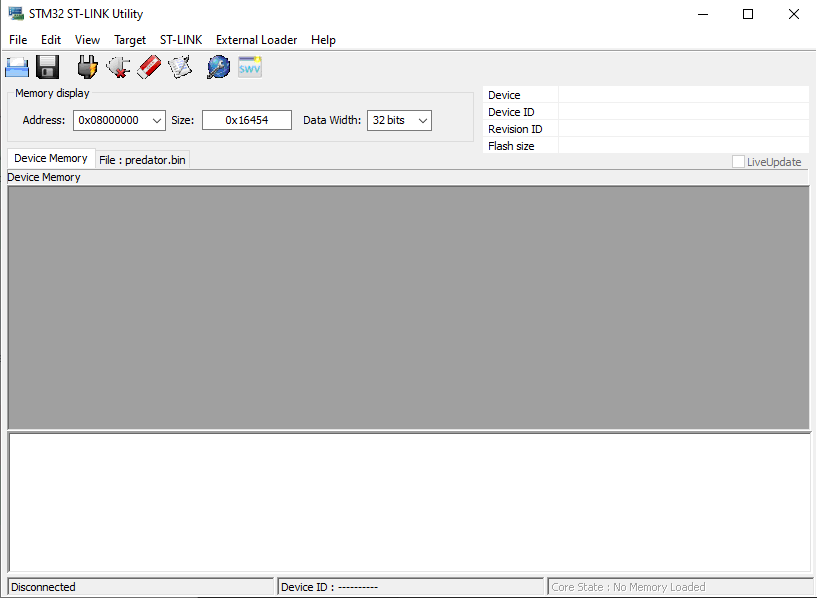
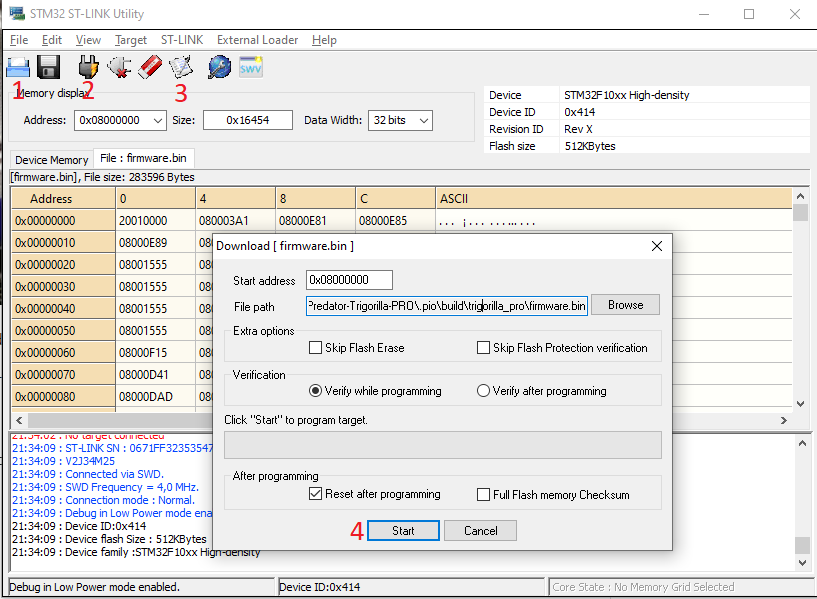
How to flash trigorilla guide

diff --git a/README.md b/README.md
@@ -1,4 +1,4 @@
-# Marlin 3D Printer Firmware for Anycubic TRIGORILLA PRO, this fosused on the Predator delta.
+# Marlin 3D Printer Firmware for Anycubic TRIGORILLA PRO, this focused on the Predator delta.
 
 ![GitHub](https://img.shields.io/github/license/marlinfirmware/marlin.svg)
 ![GitHub contributors](https://img.shields.io/github/contributors/marlinfirmware/marlin.svg)
@@ -27,16 +27,13 @@ Please let us know if Marlin misbehaves in any way. Volunteers are standing by!
 
 ## To do list
 
-- LCD FSMC (now inverted and small)
+- LCD FSMC (small)
 - Power Loss detect (maybe works)
 - I2C EEPROM (soft I2C, is connected to pins of the FSMC interface PG0, PG1)
 - SPI Flash
 
 ## Notes
 - This version is not supported by the stock bootloader, you will need a USB debugger(ST-LINK).
-- SWD pins are abaliable on Z+(PA13 SWDIO) and Z-(PA14 SWCLK) end stops, you need to connect some cables before the resistor next to the connector. Images coming soon.
-- **Be careful and never connect 3.3V of your USB debugger.**
-- If this is your first time uploading the code, you must be remove the jumper from JP1
 
 ## How compile and flash Trigorilla Pro
 
@@ -56,9 +53,10 @@ Please let us know if Marlin misbehaves in any way. Volunteers are standing by!
  - Move the jumper SW1 to USB and remove JP1 jumper ![welded cables](/Images/JUMPERS.png)
  - Connect the SDW pins (SWDIO, SWCLK and GND) to your debugger **don’t need VCC**
  - Plug the USB cable on trgirilla pro, the board will be start booting
- - Open STM32 ST-LINK Utility
+ - Open STM32 ST-LINK Utility ![STM32 ST-LINK Utility](/Images/STM32 ST-LINK Utility.png)
  - Open file (1), browse this route Marlin-Anycubic-Predator-Trigorilla-PRO\.pio\build\trigorilla_pro and select firmware.bin
- - Click program (2)
+ - Click connect to target (2), program (3) and start (4)
+ - **Disconnect usb debugger before testing or motors will stutter**
  - **Finished!**
 
 
